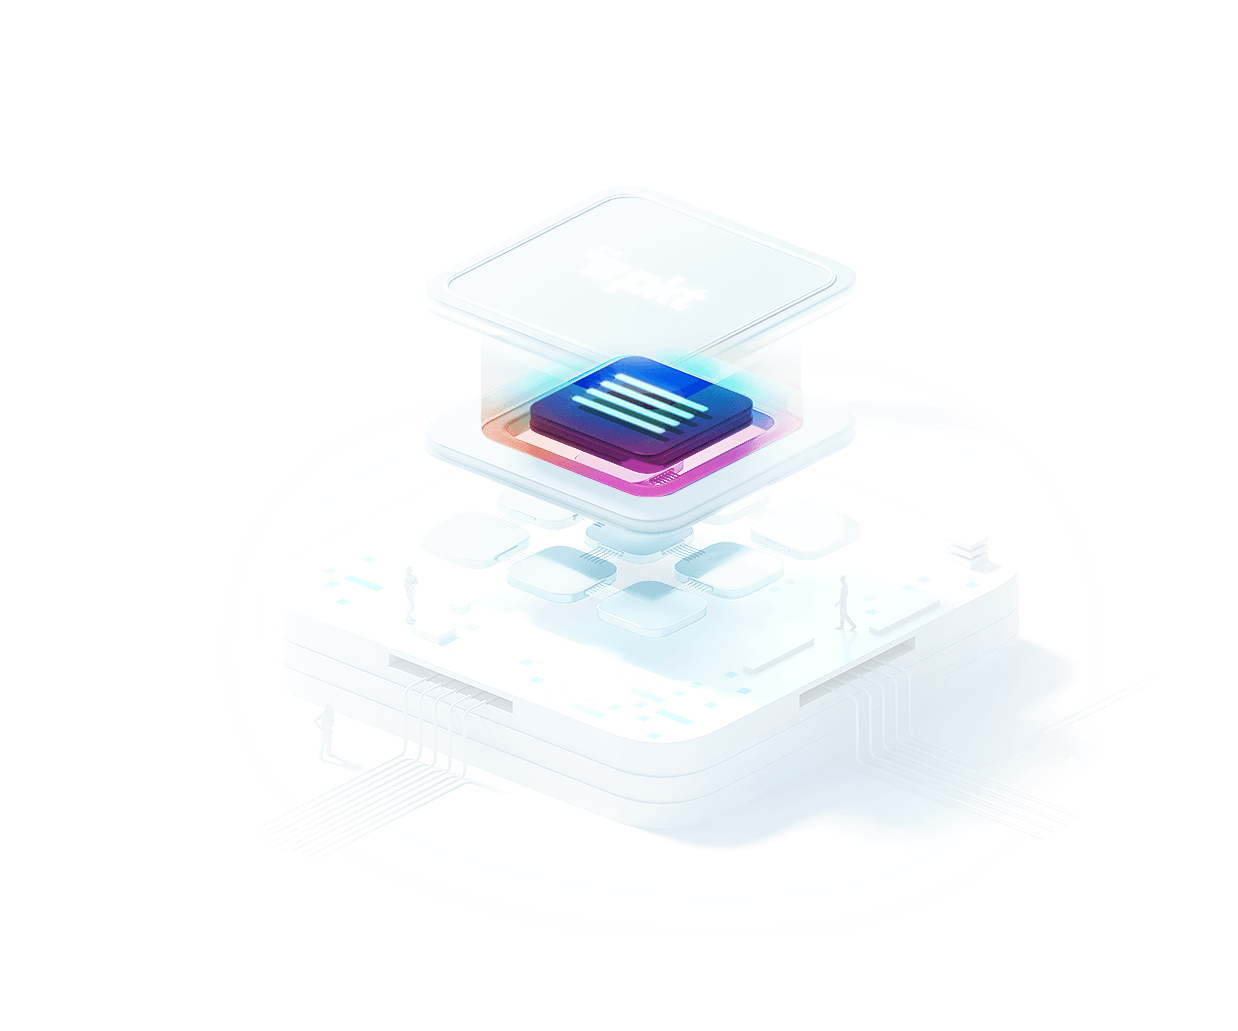
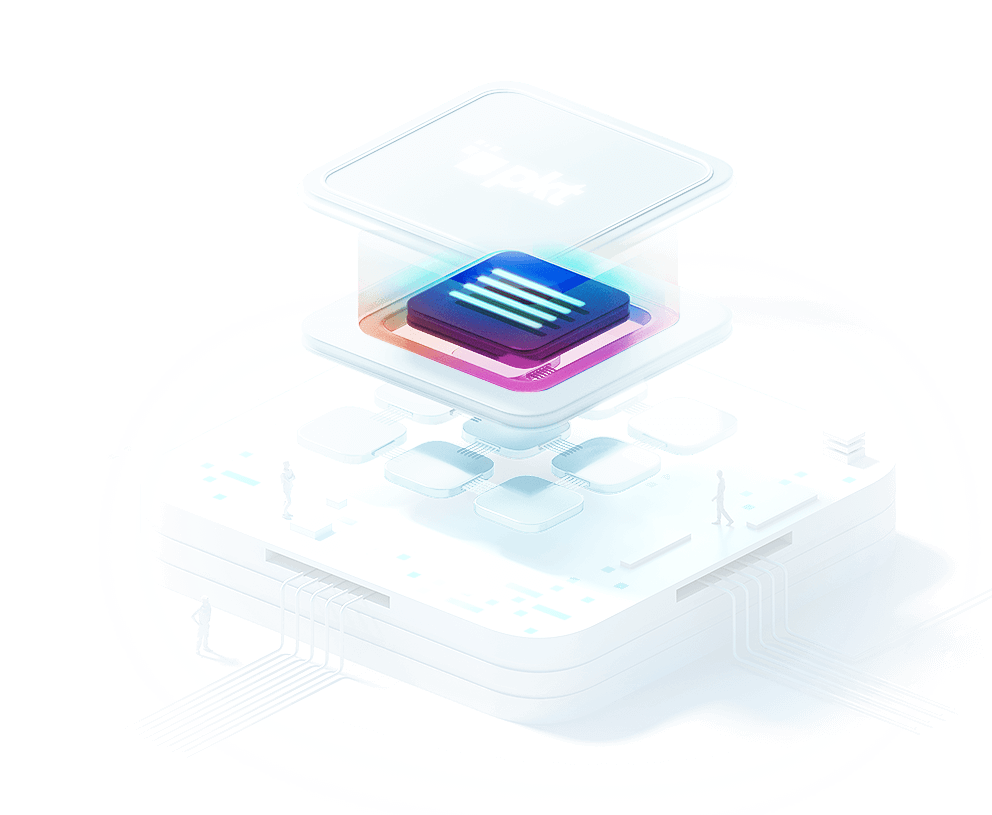
master | Increase image by network on 20% | city7g

diff --git a/components/Index/IndexScrollSection.vue b/components/Index/IndexScrollSection.vue
@@ -3,35 +3,42 @@
     <div class="container">
       <div class="c-scroll-sect">
         <div class="c-scroll-sect__wrap c-scroll-sect__wrap_top">
-          <h2 class="c-scroll-sect__title">
-            The Network
-          </h2>
+          <h2 class="c-scroll-sect__title">The Network</h2>
           <div class="c-scroll-sect__text">
             The world’s first bandwidth-hard blockchain protocol, built to incentivize
             the growth of infrastructure
           </div>
         </div>
         <div class="c-scroll-sect__wrap c-scroll-sect__wrap_content">
-<!--          <figure >-->
-<!--           v-if="image_index === index" :class="{ visible: image_index === index }"-->
-            <div class="c-scroll-sect__scroll-images">
-              <div class="scroll-image">
-                <div class="scroll-image-wrapper">
-                  <transition-group name="fade" mode="in-out" tag="figure">
-                    <img v-for="(img, index) of images" v-if="image_index === index" :key="img" :src="img" :alt="img">
-                  </transition-group>
-                </div>
+          <!--          <figure >-->
+          <!--           v-if="image_index === index" :class="{ visible: image_index === index }"-->
+          <div class="c-scroll-sect__scroll-images">
+            <div class="scroll-image">
+              <div class="scroll-image-wrapper">
+                <transition-group name="fade" mode="in-out" tag="figure">
+                  <img
+                    v-for="(img, index) of images"
+                    v-if="image_index === index"
+                    :key="img"
+                    :src="img"
+                    :alt="img"
+                  />
+                </transition-group>
               </div>
             </div>
+          </div>
 
-<!--          </figure>-->
+          <!--          </figure>-->
           <div class="c-scroll-sect__wrapper">
-            <div v-for="(block, index) of blocks" :ref="`scroll-sect-${index}`"
-                 :key="index"
-                 :class="{ show_block: image_index === index, hide: hide_block === index }"
-                 class="c-scroll-sect__block">
+            <div
+              v-for="(block, index) of blocks"
+              :ref="`scroll-sect-${index}`"
+              :key="index"
+              :class="{ show_block: image_index === index, hide: hide_block === index }"
+              class="c-scroll-sect__block"
+            >
               <figure class="c-scroll-sect__b-wrap-right">
-                <img :src="images[index]" :alt="block.title">
+                <img :src="images[index]" :alt="block.title" />
               </figure>
               <div class="c-scroll-sect__b-wrap-left">
                 <h3 class="c-scroll-sect__b-title" v-html="block.title"></h3>
@@ -49,113 +56,127 @@
 </template>
 
 <script>
-  export default {
-    name: "IndexScrollSection",
-    data() {
-      return {
-        images: [
-          '/img/scroll-section/scroll-sect-1.png',
-          '/img/scroll-section/scroll-sect-2.png',
-          '/img/scroll-section/scroll-sect-4.png',
-          '/img/scroll-section/scroll-sect-3.png',
-          '/img/scroll-section/scroll-sect-5.png',
-        ],
-        blocks: [
-          {
-            title: 'PKT Network',
-            text: 'PKT is a new blockchain that rewards users  for contributing bandwidth to the network. \n' +
-              'Nodes broadcast what are called announcements (“anns”) across the network. \n',
-            link: { path: '/cash' }
-          },
-          {
-            title: 'PacketCrypt Protocol',
-            text: 'PKT is a new blockchain that rewards users  for contributing bandwidth to the network.  Nodes broadcast what are called announcements (“anns”) across the network.',
-            link: { path: '/setup' }
-          },
-          {
-            title: 'Announcement Mining',
-            text: 'PKT is a new blockchain that rewards users  for contributing bandwidth to the network. \n' +
-              'Nodes broadcast what are called announcements (“anns”) across the network. \n',
-            link: { path: '/mining' }
-          },
-          {
-            title: 'Block Mining',
-            text: 'PKT is a new blockchain that rewards users  for contributing bandwidth to the network. \n' +
-              'Nodes broadcast what are called announcements (“anns”) across the network, and Blockminers gather those anns and put them into the blockchain. \n',
-            link: { path: '/mining' }
-          },
-          {
-            title: 'PKT',
-            text: 'PKT is a new blockchain that rewards users  for contributing bandwidth to the network. \n' +
-              'Nodes broadcast what are called announcements (“anns”) across the network, and Blockminers gather those anns and put them into the blockchain. \n',
-            link: { path: '/cash' }
-          },
-        ],
-        image_index: 0,
-        hide_block: null
-      }
+export default {
+  name: "IndexScrollSection",
+  data() {
+    return {
+      images: [
+        "/img/scroll-section/scroll-sect-1.png",
+        "/img/scroll-section/scroll-sect-2.png",
+        "/img/scroll-section/scroll-sect-4.png",
+        "/img/scroll-section/scroll-sect-3.png",
+        "/img/scroll-section/scroll-sect-5.png",
+      ],
+      blocks: [
+        {
+          title: "PKT Network",
+          text:
+            "PKT is a new blockchain that rewards users  for contributing bandwidth to the network. \n" +
+            "Nodes broadcast what are called announcements (“anns”) across the network. \n",
+          link: { path: "/cash" },
+        },
+        {
+          title: "PacketCrypt Protocol",
+          text:
+            "PKT is a new blockchain that rewards users  for contributing bandwidth to the network.  Nodes broadcast what are called announcements (“anns”) across the network.",
+          link: { path: "/setup" },
+        },
+        {
+          title: "Announcement Mining",
+          text:
+            "PKT is a new blockchain that rewards users  for contributing bandwidth to the network. \n" +
+            "Nodes broadcast what are called announcements (“anns”) across the network. \n",
+          link: { path: "/mining" },
+        },
+        {
+          title: "Block Mining",
+          text:
+            "PKT is a new blockchain that rewards users  for contributing bandwidth to the network. \n" +
+            "Nodes broadcast what are called announcements (“anns”) across the network, and Blockminers gather those anns and put them into the blockchain. \n",
+          link: { path: "/mining" },
+        },
+        {
+          title: "PKT",
+          text:
+            "PKT is a new blockchain that rewards users  for contributing bandwidth to the network. \n" +
+            "Nodes broadcast what are called announcements (“anns”) across the network, and Blockminers gather those anns and put them into the blockchain. \n",
+          link: { path: "/cash" },
+        },
+      ],
+      image_index: 0,
+      hide_block: null,
+    };
+  },
+  methods: {
+    getCoords(name) {
+      const box = this.$refs[name][0].getBoundingClientRect();
+      //
+      return box.top + pageYOffset;
     },
-    methods: {
-      getCoords(name) {
-        const box = this.$refs[name][0].getBoundingClientRect()
-        //
-        return box.top + pageYOffset;
-      }
-    },
-    created() {
-      if(process.client) {
-        document.addEventListener('scroll', () => {
-          const condition = window.innerWidth > 1100 ? 550 : 150;
-          const section_0 = this.getCoords('scroll-sect-0') - condition;
-          const section_1 = this.getCoords('scroll-sect-1') - condition;
-          const section_2 = this.getCoords('scroll-sect-2') - condition;
-          const section_3 = this.getCoords('scroll-sect-3') - condition;
-          const section_4 = this.getCoords('scroll-sect-4') - condition;
-          let scroll_y = window.innerWidth > 1100 ? window.scrollY : window.scrollY + 30;
-          if(scroll_y >= section_0) {
-            this.image_index = 0
-          }
-          if(scroll_y >= section_1) {
-            this.image_index = 1
-          }
-          if(scroll_y >= section_2) {
-            this.image_index = 2
-          }
-          if(scroll_y >= section_3) {
-            this.image_index = 3
-          }
-          if(scroll_y >= section_4) {
-            this.image_index = 4
-          }
-        })
-      }
-    },
-  }
+  },
+  created() {
+    if (process.client) {
+      document.addEventListener("scroll", () => {
+        const condition = window.innerWidth > 1100 ? 550 : 150;
+        const section_0 = this.getCoords("scroll-sect-0") - condition;
+        const section_1 = this.getCoords("scroll-sect-1") - condition;
+        const section_2 = this.getCoords("scroll-sect-2") - condition;
+        const section_3 = this.getCoords("scroll-sect-3") - condition;
+        const section_4 = this.getCoords("scroll-sect-4") - condition;
+        let scroll_y =
+          window.innerWidth > 1100 ? window.scrollY : window.scrollY + 30;
+        if (scroll_y >= section_0) {
+          this.image_index = 0;
+        }
+        if (scroll_y >= section_1) {
+          this.image_index = 1;
+        }
+        if (scroll_y >= section_2) {
+          this.image_index = 2;
+        }
+        if (scroll_y >= section_3) {
+          this.image_index = 3;
+        }
+        if (scroll_y >= section_4) {
+          this.image_index = 4;
+        }
+      });
+    }
+  },
+};
 </script>
 
 <style lang="scss">
-.fade-enter-active, .fade-leave-active {
-  transition: opacity .5s;
+.fade-enter-active,
+.fade-leave-active {
+  transition: opacity 0.5s;
 }
-.fade-enter, .fade-leave-to {
+.fade-enter,
+.fade-leave-to {
   opacity: 0;
 }
 .c-scroll-section {
   position: relative;
   @extend %bg-reset;
-  background: linear-gradient(189.29deg, rgba(60, 207, 239, 0.0126) 43.48%, rgba(60, 196, 239, 0.06) 78.24%);
+  background: linear-gradient(
+    189.29deg,
+    rgba(60, 207, 239, 0.0126) 43.48%,
+    rgba(60, 196, 239, 0.06) 78.24%
+  );
   //@include for-width(-tablet) {
-    //height: calc(100% + 500px);
+  //height: calc(100% + 500px);
   //}
   .container {
     max-width: rem(1112);
     margin: 0 auto;
     @include for-width(-laptop) {
       max-width: rem(962);
+      padding: 0 rem(30);
     }
     @include for-width(-tablet) {
       max-width: rem(300);
       height: calc(100% + 200px);
+      padding: 0;
     }
   }
 }
@@ -185,6 +206,9 @@
     position: sticky;
     top: 0;
     max-width: rem(558);
+    @include for-width(-tablet-lg) {
+      max-width: rem(380);
+    }
     @include for-width(-tablet) {
       position: relative;
       top: auto;
@@ -196,7 +220,7 @@
     text-align: center;
     margin-bottom: rem(58);
     @include for-width(-tablet) {
-      @include font_sizes(36, 40)
+      @include font_sizes(36, 40);
     }
   }
   &__text {
@@ -242,7 +266,7 @@
       top: 0;
       right: 0;
       order: 2;
-      transition: opacity .3s ease;
+      transition: opacity 0.3s ease;
       height: rem(483);
       /*&.visible {*/
       /*  position: sticky;*/
@@ -262,7 +286,7 @@
       top: rem(30);
       margin-bottom: rem(20);
       opacity: 0;
-      transition: all .3s ease;
+      transition: all 0.3s ease;
       &.show_block {
         opacity: 1;
       }
@@ -271,7 +295,6 @@
   &__b {
     &-wrap {
       &-left {
-
       }
       &-right {
         display: none;
